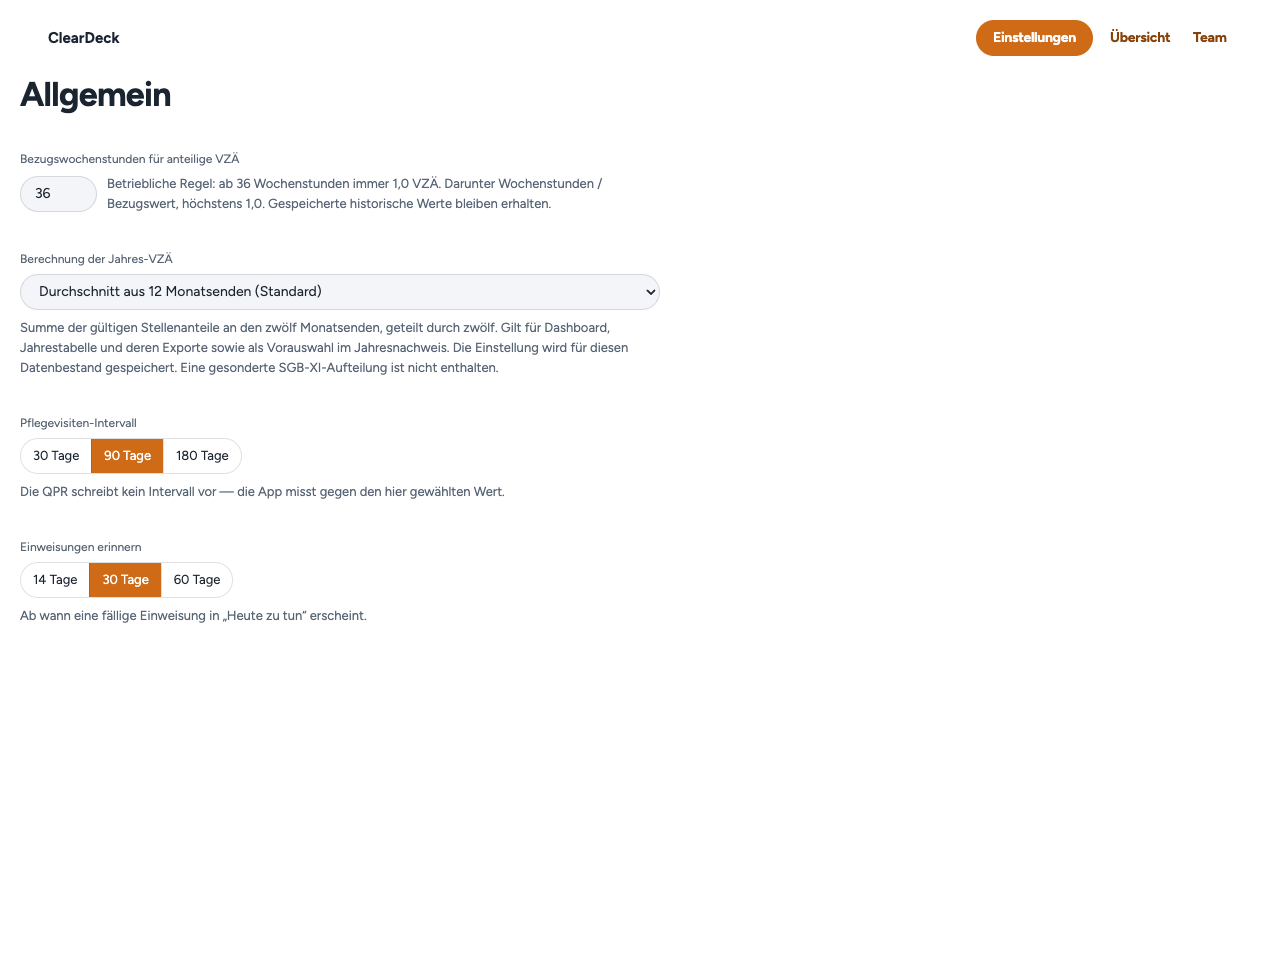
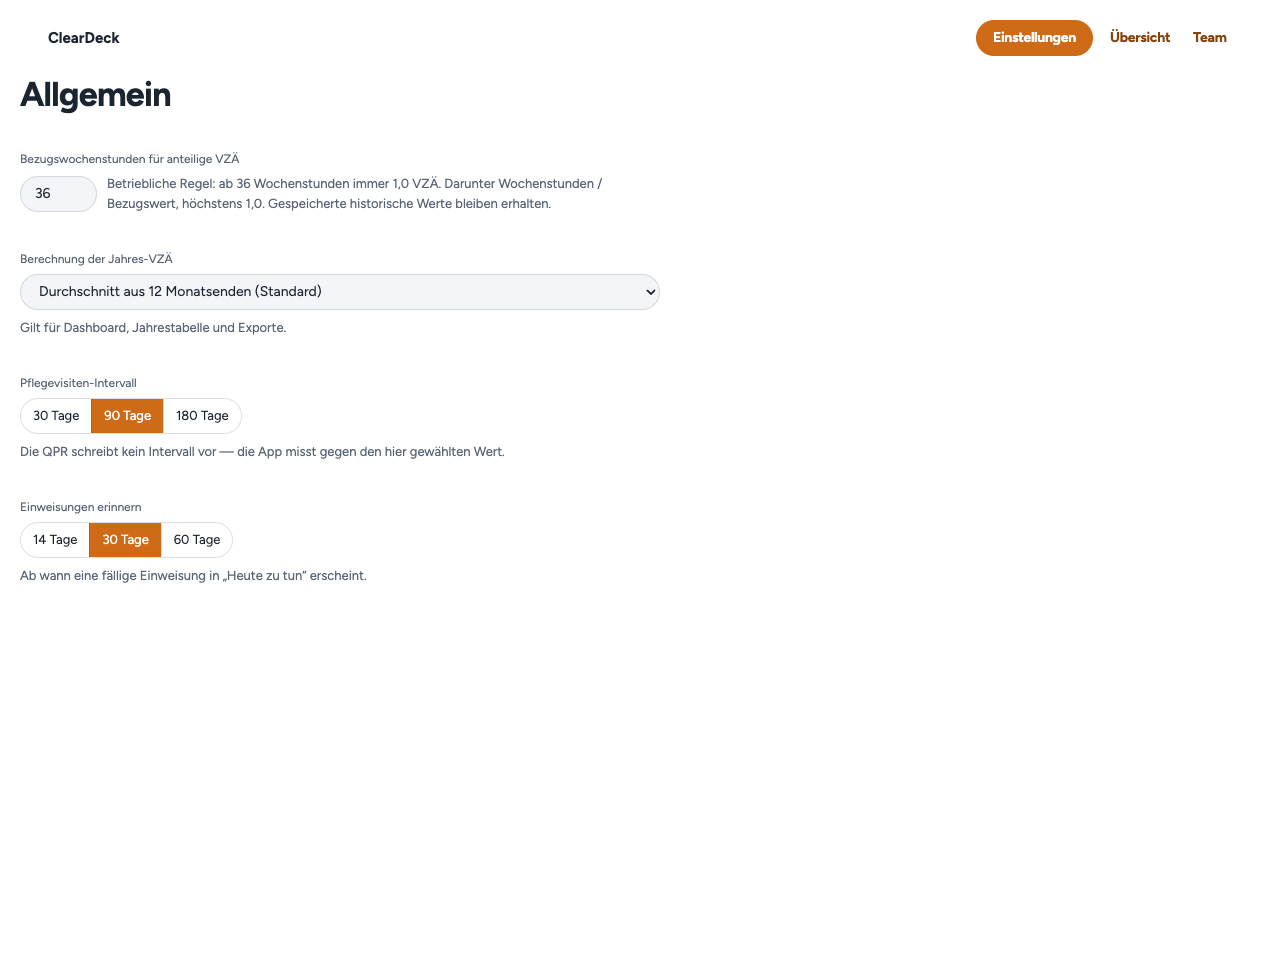
Erklärungstexte zur Jahres-VZÄ-Berechnung kürzen

Changed region(s): [[0.0, 0.3125, 0.5, 0.6562]]

diff --git a/src/components/pages/Dashboard.tsx b/src/components/pages/Dashboard.tsx
@@ -228,7 +228,9 @@ const Dashboard = ({
               <div key={category.qualification}>
                 <div className="cd-bar-label">
                   <span style={{ fontWeight: 600 }}>{category.qualification}</span>
-                  <span className="cd-muted">
+                  <span className="cd-muted" title={annual?.method === 'month-end-average'
+                    ? 'Personen an mindestens einem Monatsende; je Qualifikation einmal gezählt.'
+                    : undefined}>
                     {category.headcount} Personen ·{' '}
                     <strong style={{ color: 'var(--color-text)' }}>{fte2(category.fte)}</strong> VZÄ
                   </span>
@@ -249,10 +251,8 @@ const Dashboard = ({
             )}
           </div>
           <p className="cd-muted-13" style={{ margin: '14px 0 0' }}>
-            {methodLabel}. Basis {baseHours} Std./Woche.
-            {annual?.method === 'month-end-average' && ' Personen zählen je Qualifikation an mindestens einem Monatsende; insgesamt jede Person einmal.'}
-            {annual && ' Qualifikationswechsel werden zeitanteilig berücksichtigt.'}
-            {provisional && ' Vorläufig: fehlende Stellenanteile fehlen in der Summe; unbestätigte Altwerte bitte prüfen.'}{' '}
+            Basis {baseHours} Std./Woche.
+            {provisional && ' Vorläufig: Stellenanteile fehlen oder sind unbestätigt.'}{' '}
             <button type="button" className="cd-link" onClick={onOpenReport}>
               Jahresnachweis {year - 1} erstellen →
             </button>

diff --git a/src/components/pages/EmployeeList.tsx b/src/components/pages/EmployeeList.tsx
@@ -107,7 +107,7 @@ const EmployeeList = ({
       key: 'qualification',
       label: 'Qualifikation',
       compact: true,
-      cell: (employee) => employee.qualification,
+      cell: (employee) => <span title={directoryMode ? undefined : "Letzter Stand im Jahr"}>{employee.qualification}</span>,
     },
     {
       key: 'startDate',
@@ -136,7 +136,7 @@ const EmployeeList = ({
       key: 'weeklyHours',
       label: 'Std./Wo.',
       align: 'right',
-      cell: (employee) => employee.weeklyHours ?? '—',
+      cell: (employee) => <span title={directoryMode ? undefined : "Letzter Stand im Jahr"}>{employee.weeklyHours ?? '—'}</span>,
     },
     {
       key: 'fte',
@@ -171,10 +171,9 @@ const EmployeeList = ({
           </p>
           {!directoryMode && annualFteMethod && (
             <p className="cd-muted-13" style={{ margin: '6px 0 0' }}>
-              {annualFteLabel(annualFteMethod)}. Qualifikation und Wochenstunden zeigen den letzten Stand im Jahr;
-              Jahres-VZÄ berücksichtigen den gesamten Jahresverlauf.
+              {annualFteLabel(annualFteMethod)}
               {filteredEmployees.some(e => e.annualFteMissing || e.annualFteVerified === false) &&
-                ' Vorläufig: fehlende Stellenanteile fehlen in der Summe; unbestätigte Altwerte bitte prüfen.'}
+                ' · Vorläufig: Stellenanteile fehlen oder sind unbestätigt.'}
             </p>
           )}
         </div>

diff --git a/src/components/pages/settings/SettingsGeneral.tsx b/src/components/pages/settings/SettingsGeneral.tsx
@@ -66,11 +66,7 @@ const SettingsGeneral = ({
         <option value="year-average">{annualFteLabel('year-average')}</option>
       </select>
       <p id="annual-fte-help" className="cd-muted-13" style={{ margin: '8px 0 0' }}>
-        {annualFteMethod === 'month-end-average'
-          ? 'Summe der gültigen Stellenanteile an den zwölf Monatsenden, geteilt durch zwölf.'
-          : 'Stellenanteile nach ihren gültigen Kalendertagen gewichtet, geteilt durch die Tage des Jahres.'}
-        {' '}Gilt für Dashboard, Jahrestabelle und deren Exporte sowie als Vorauswahl im Jahresnachweis.
-        {' '}Die Einstellung wird für diesen Datenbestand gespeichert. Eine gesonderte SGB-XI-Aufteilung ist nicht enthalten.
+        Gilt für Dashboard, Jahrestabelle und Exporte.
       </p>
       {annualFteSaving && <p role="status" className="cd-muted-13">Wird gespeichert …</p>}
     </div>

diff --git a/src/hooks/__tests__/useAnnualFteSetting.test.tsx b/src/hooks/__tests__/useAnnualFteSetting.test.tsx
@@ -56,5 +56,4 @@ it('offers both annual methods in general settings and disables changes while sa
   rerender(<SettingsGeneral {...props} annualFteMethod="year-average" annualFteSaving />);
   expect(select).toHaveValue('year-average');
   expect(select).toBeDisabled();
-  expect(screen.getByText(/nach ihren gültigen Kalendertagen/)).toBeInTheDocument();
 });
